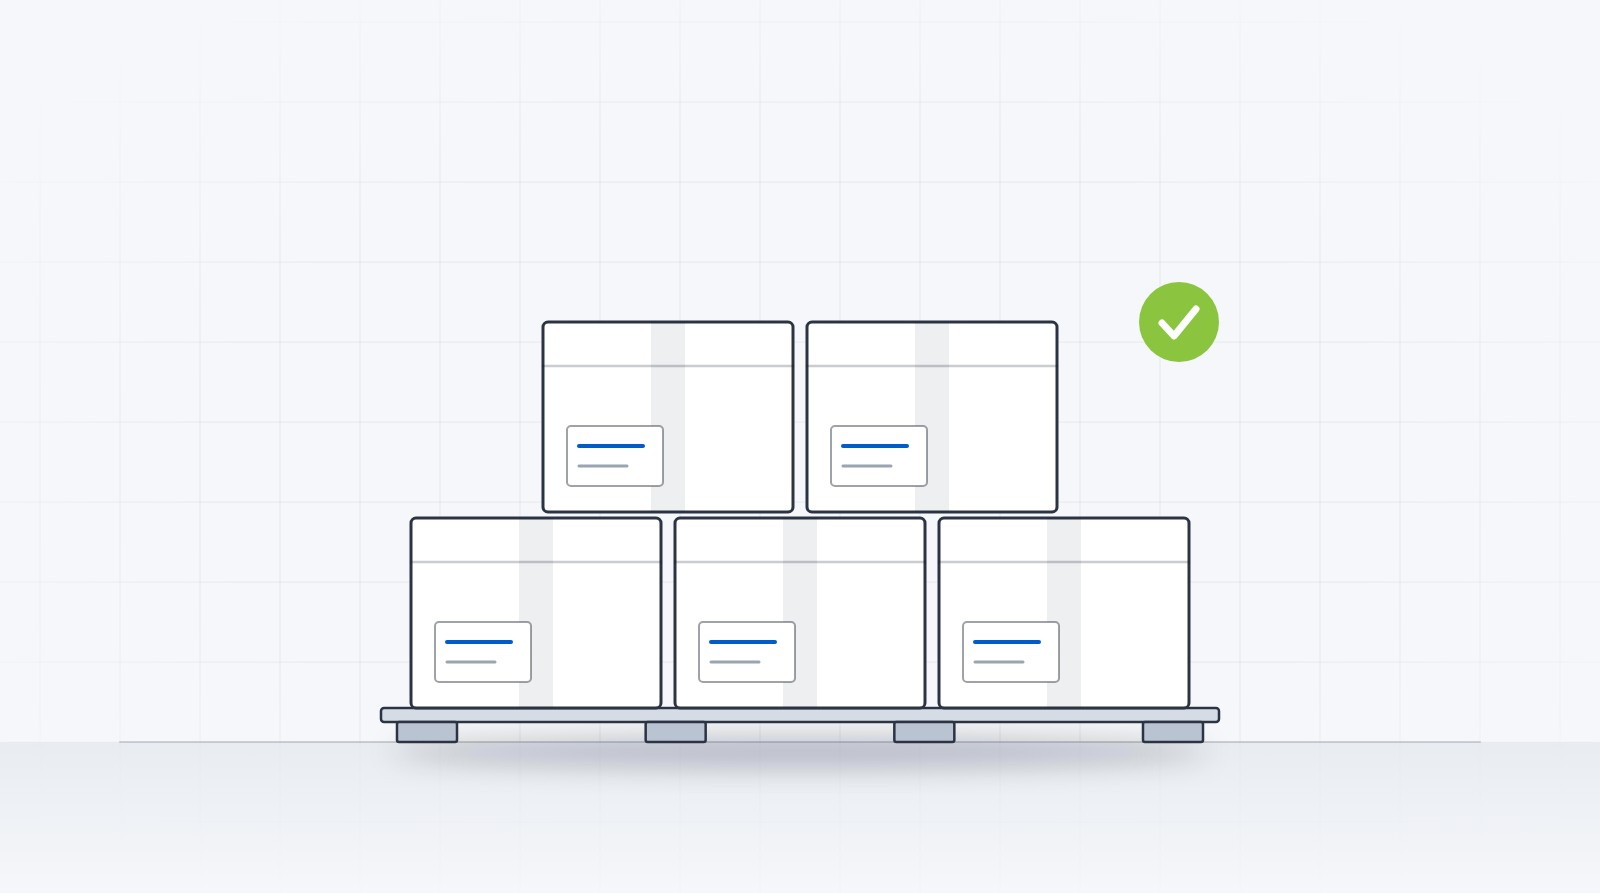
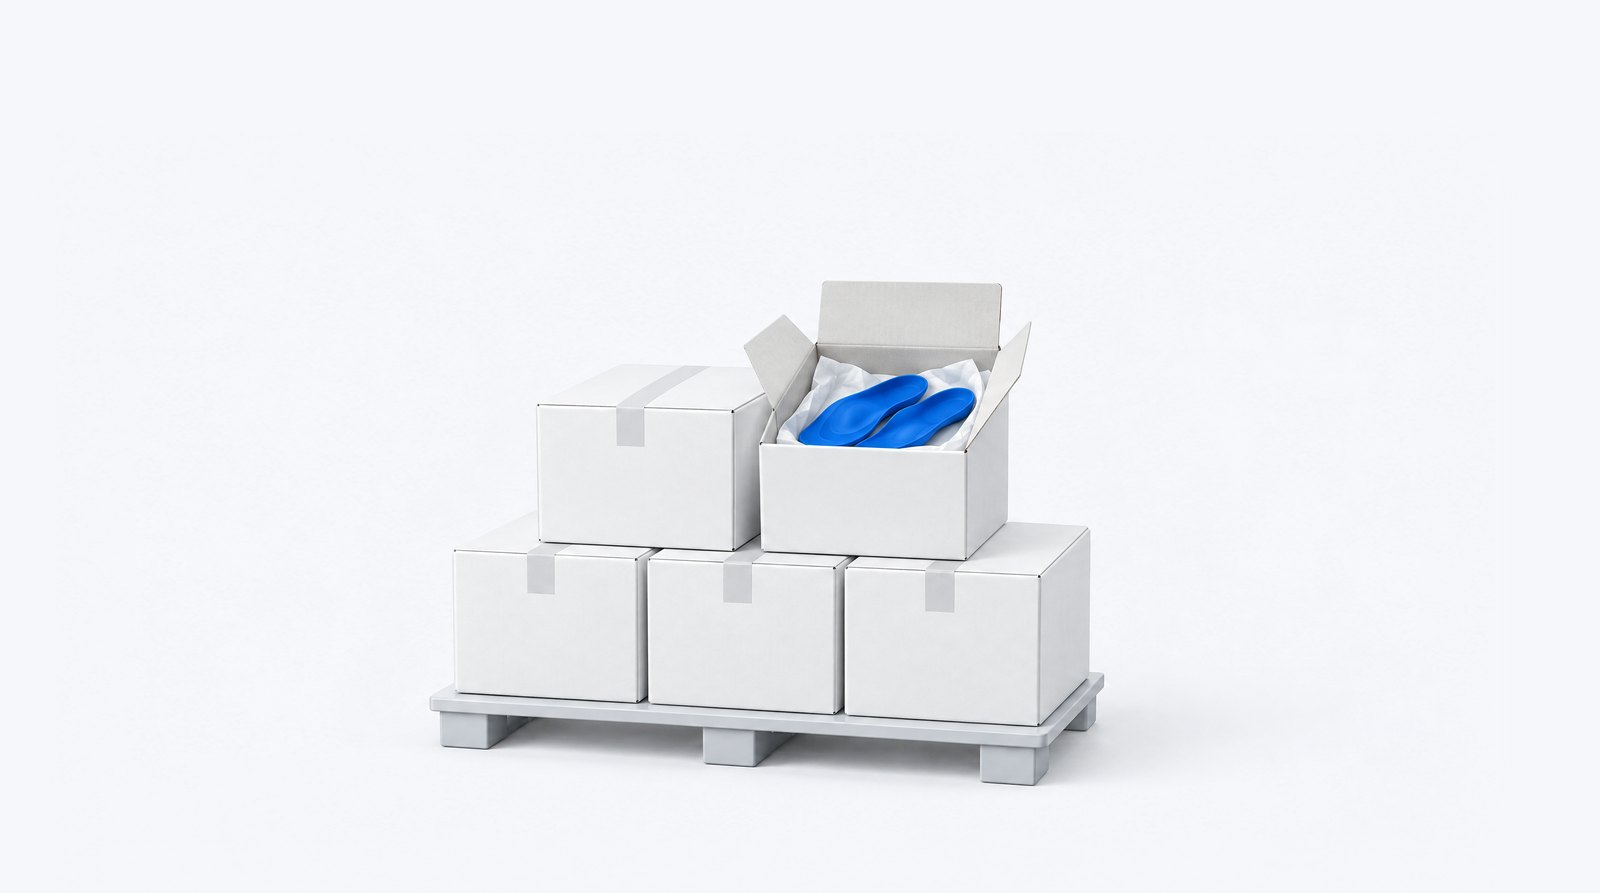
Hub pictures: clean white product renders
Replaces the soft-blue renders on the four hub cards (hub page, homepage
doors, next-door strips) and the Mill Hub pallet picture with realistic
white and light-grey product renders, NexPoint Blue only on the made thing
and no green. Same file names in all three image folders; alt text updated.

Picks (Will, 30 Oct 2026): Print C, Mill B, Opportunities B, Education B,
pallet A. Made with Higgsfield gpt_image_2_5, finished to 1600x893 on
exact #F5F7FA with each object at the size and position of the picture
it replaces.

Changed region(s): [[0.2188, 0.3024, 0.7812, 0.8768], [0.6875, 0.3024, 0.7812, 0.4233], [0.4062, 0.3931, 0.4375, 0.4233]]

diff --git a/hub/index.html b/hub/index.html
@@ -288,7 +288,7 @@ away to the left and brings the doors in from the right in its place.
     <div class="doors doors--four">
       <a class="door" href="https://printhub.nexpoint.co.uk/">
         <div class="door__media">
-          <img src="assets/img/print-hub.jpg" alt="Illustration of an enclosed desktop 3D printer with filament spools on top, printing an insole" width="1600" height="893" fetchpriority="high" style="height:auto">
+          <img src="assets/img/print-hub.jpg" alt="Illustration of an enclosed white 3D printer with a reel of blue filament on top, printing a blue insole" width="1600" height="893" fetchpriority="high" style="height:auto">
           <span class="status"><span class="live-dot"></span>Live</span>
         </div>
         <div class="door__body">
@@ -299,7 +299,7 @@ away to the left and brings the doors in from the right in its place.
       </a>
       <a class="door" href="https://millhub.nexpoint.co.uk/">
         <div class="door__media">
-          <img src="assets/img/mill-hub.jpg" alt="Illustration of an enclosed CNC milling machine carving a pair of insoles from a foam block" width="1600" height="893" style="height:auto">
+          <img src="assets/img/mill-hub.jpg" alt="Illustration of an enclosed white milling machine carving a pair of insoles from a blue foam block" width="1600" height="893" style="height:auto">
           <span class="status"><span class="live-dot"></span>Live</span>
         </div>
         <div class="door__body">
@@ -310,7 +310,7 @@ away to the left and brings the doors in from the right in its place.
       </a>
       <a class="door" href="https://opportunities.nexpoint.co.uk/">
         <div class="door__media">
-          <img src="assets/img/product-hub.jpg" alt="Illustration of a desk globe with opportunity briefs standing on different continents" loading="lazy" width="1600" height="893" style="height:auto">
+          <img src="assets/img/product-hub.jpg" alt="Illustration of a white desk globe with blue opportunity briefs standing on different continents" loading="lazy" width="1600" height="893" style="height:auto">
           <span class="status"><span class="live-dot"></span>Live</span>
         </div>
         <div class="door__body">
@@ -321,7 +321,7 @@ away to the left and brings the doors in from the right in its place.
       </a>
       <div class="door door--soon">
         <div class="door__media">
-          <img src="assets/img/education-hub.jpg" alt="Illustration of a desk globe wearing a graduation cap, standing on a stack of books" loading="lazy" width="1600" height="893" style="height:auto">
+          <img src="assets/img/education-hub.jpg" alt="Illustration of a desk globe with blue continents, standing on a stack of books" loading="lazy" width="1600" height="893" style="height:auto">
           <span class="status soon">Coming soon</span>
         </div>
         <div class="door__body">

diff --git a/index.html b/index.html
@@ -982,7 +982,7 @@
     <div class="doors">
       <a class="door enter enter--up" style="--d:0ms;" href="https://printhub.nexpoint.co.uk/">
         <div class="door__media">
-          <img src="hub/assets/img/print-hub.jpg" alt="Illustration of an enclosed desktop 3D printer with filament spools on top, printing an insole" width="1600" height="893" loading="lazy" />
+          <img src="hub/assets/img/print-hub.jpg" alt="Illustration of an enclosed white 3D printer with a reel of blue filament on top, printing a blue insole" width="1600" height="893" loading="lazy" />
           <span class="door__status"><span class="live-dot"></span>Live</span>
         </div>
         <div class="door__body">
@@ -994,7 +994,7 @@
 
       <a class="door enter enter--up" style="--d:70ms;" href="https://millhub.nexpoint.co.uk/">
         <div class="door__media">
-          <img src="hub/assets/img/mill-hub.jpg" alt="Illustration of an enclosed CNC milling machine carving a pair of insoles from a foam block" width="1600" height="893" loading="lazy" />
+          <img src="hub/assets/img/mill-hub.jpg" alt="Illustration of an enclosed white milling machine carving a pair of insoles from a blue foam block" width="1600" height="893" loading="lazy" />
           <span class="door__status"><span class="live-dot"></span>Live</span>
         </div>
         <div class="door__body">
@@ -1006,7 +1006,7 @@
 
       <a class="door enter enter--up" style="--d:140ms;" href="https://opportunities.nexpoint.co.uk/">
         <div class="door__media">
-          <img src="hub/assets/img/product-hub.jpg" alt="Illustration of a desk globe with opportunity briefs standing on different continents" width="1600" height="893" loading="lazy" />
+          <img src="hub/assets/img/product-hub.jpg" alt="Illustration of a white desk globe with blue opportunity briefs standing on different continents" width="1600" height="893" loading="lazy" />
           <span class="door__status"><span class="live-dot"></span>Live</span>
         </div>
         <div class="door__body">
@@ -1018,7 +1018,7 @@
 
       <a class="door door--soon enter enter--up" style="--d:210ms;" href="https://nexpoint.co.uk/hub/">
         <div class="door__media">
-          <img src="hub/assets/img/education-hub.jpg" alt="Illustration of a desk globe wearing a graduation cap, standing on a stack of books" width="1600" height="893" loading="lazy" />
+          <img src="hub/assets/img/education-hub.jpg" alt="Illustration of a desk globe with blue continents, standing on a stack of books" width="1600" height="893" loading="lazy" />
           <span class="door__status door__status--soon">Coming soon</span>
         </div>
         <div class="door__body">

diff --git a/millhub/index.html b/millhub/index.html
@@ -260,7 +260,7 @@ capacity CTAs collapsed into one door · logo path fixed.
         </ul>
       </div>
       <div class="media enter enter--right">
-        <img src="assets/img/mill-finish.jpg" alt="Illustration of boxed work stacked on a pallet, checked and ready to ship" width="1600" height="893" loading="lazy" style="height:auto">
+        <img src="assets/img/mill-finish.jpg" alt="Illustration of boxed work stacked on a pallet, one box open to show a pair of finished insoles, ready to ship" width="1600" height="893" loading="lazy" style="height:auto">
       </div>
     </div>
   </div>
@@ -289,7 +289,7 @@ capacity CTAs collapsed into one door · logo path fixed.
         <span class="kicker">Next door</span>
         <h3>Certified 3D-printing capacity, worldwide: the 3D Print Hub <svg width="18" height="18" viewBox="0 0 24 24" fill="none" stroke="currentColor" stroke-width="2.4" aria-hidden="true"><path d="M5 12h14M13 6l6 6-6 6"/></svg></h3>
       </div>
-      <img src="assets/img/print-hub.jpg" alt="Illustration of an enclosed desktop 3D printer with filament spools on top, printing an insole" width="1600" height="893" loading="lazy">
+      <img src="assets/img/print-hub.jpg" alt="Illustration of an enclosed white 3D printer with a reel of blue filament on top, printing a blue insole" width="1600" height="893" loading="lazy">
     </a>
   </div>
 </section>

diff --git a/printhub/index.html b/printhub/index.html
@@ -282,7 +282,7 @@ own pages · logo path fixed.
         <span class="kicker">Next door</span>
         <h3>Milled production, run as your own line: the Mill Hub <svg width="18" height="18" viewBox="0 0 24 24" fill="none" stroke="currentColor" stroke-width="2.4" aria-hidden="true"><path d="M5 12h14M13 6l6 6-6 6"/></svg></h3>
       </div>
-      <img src="assets/img/mill-hub.jpg" alt="Illustration of an enclosed CNC milling machine carving a pair of insoles from a foam block" width="1600" height="893" loading="lazy">
+      <img src="assets/img/mill-hub.jpg" alt="Illustration of an enclosed white milling machine carving a pair of insoles from a blue foam block" width="1600" height="893" loading="lazy">
     </a>
   </div>
 </section>
